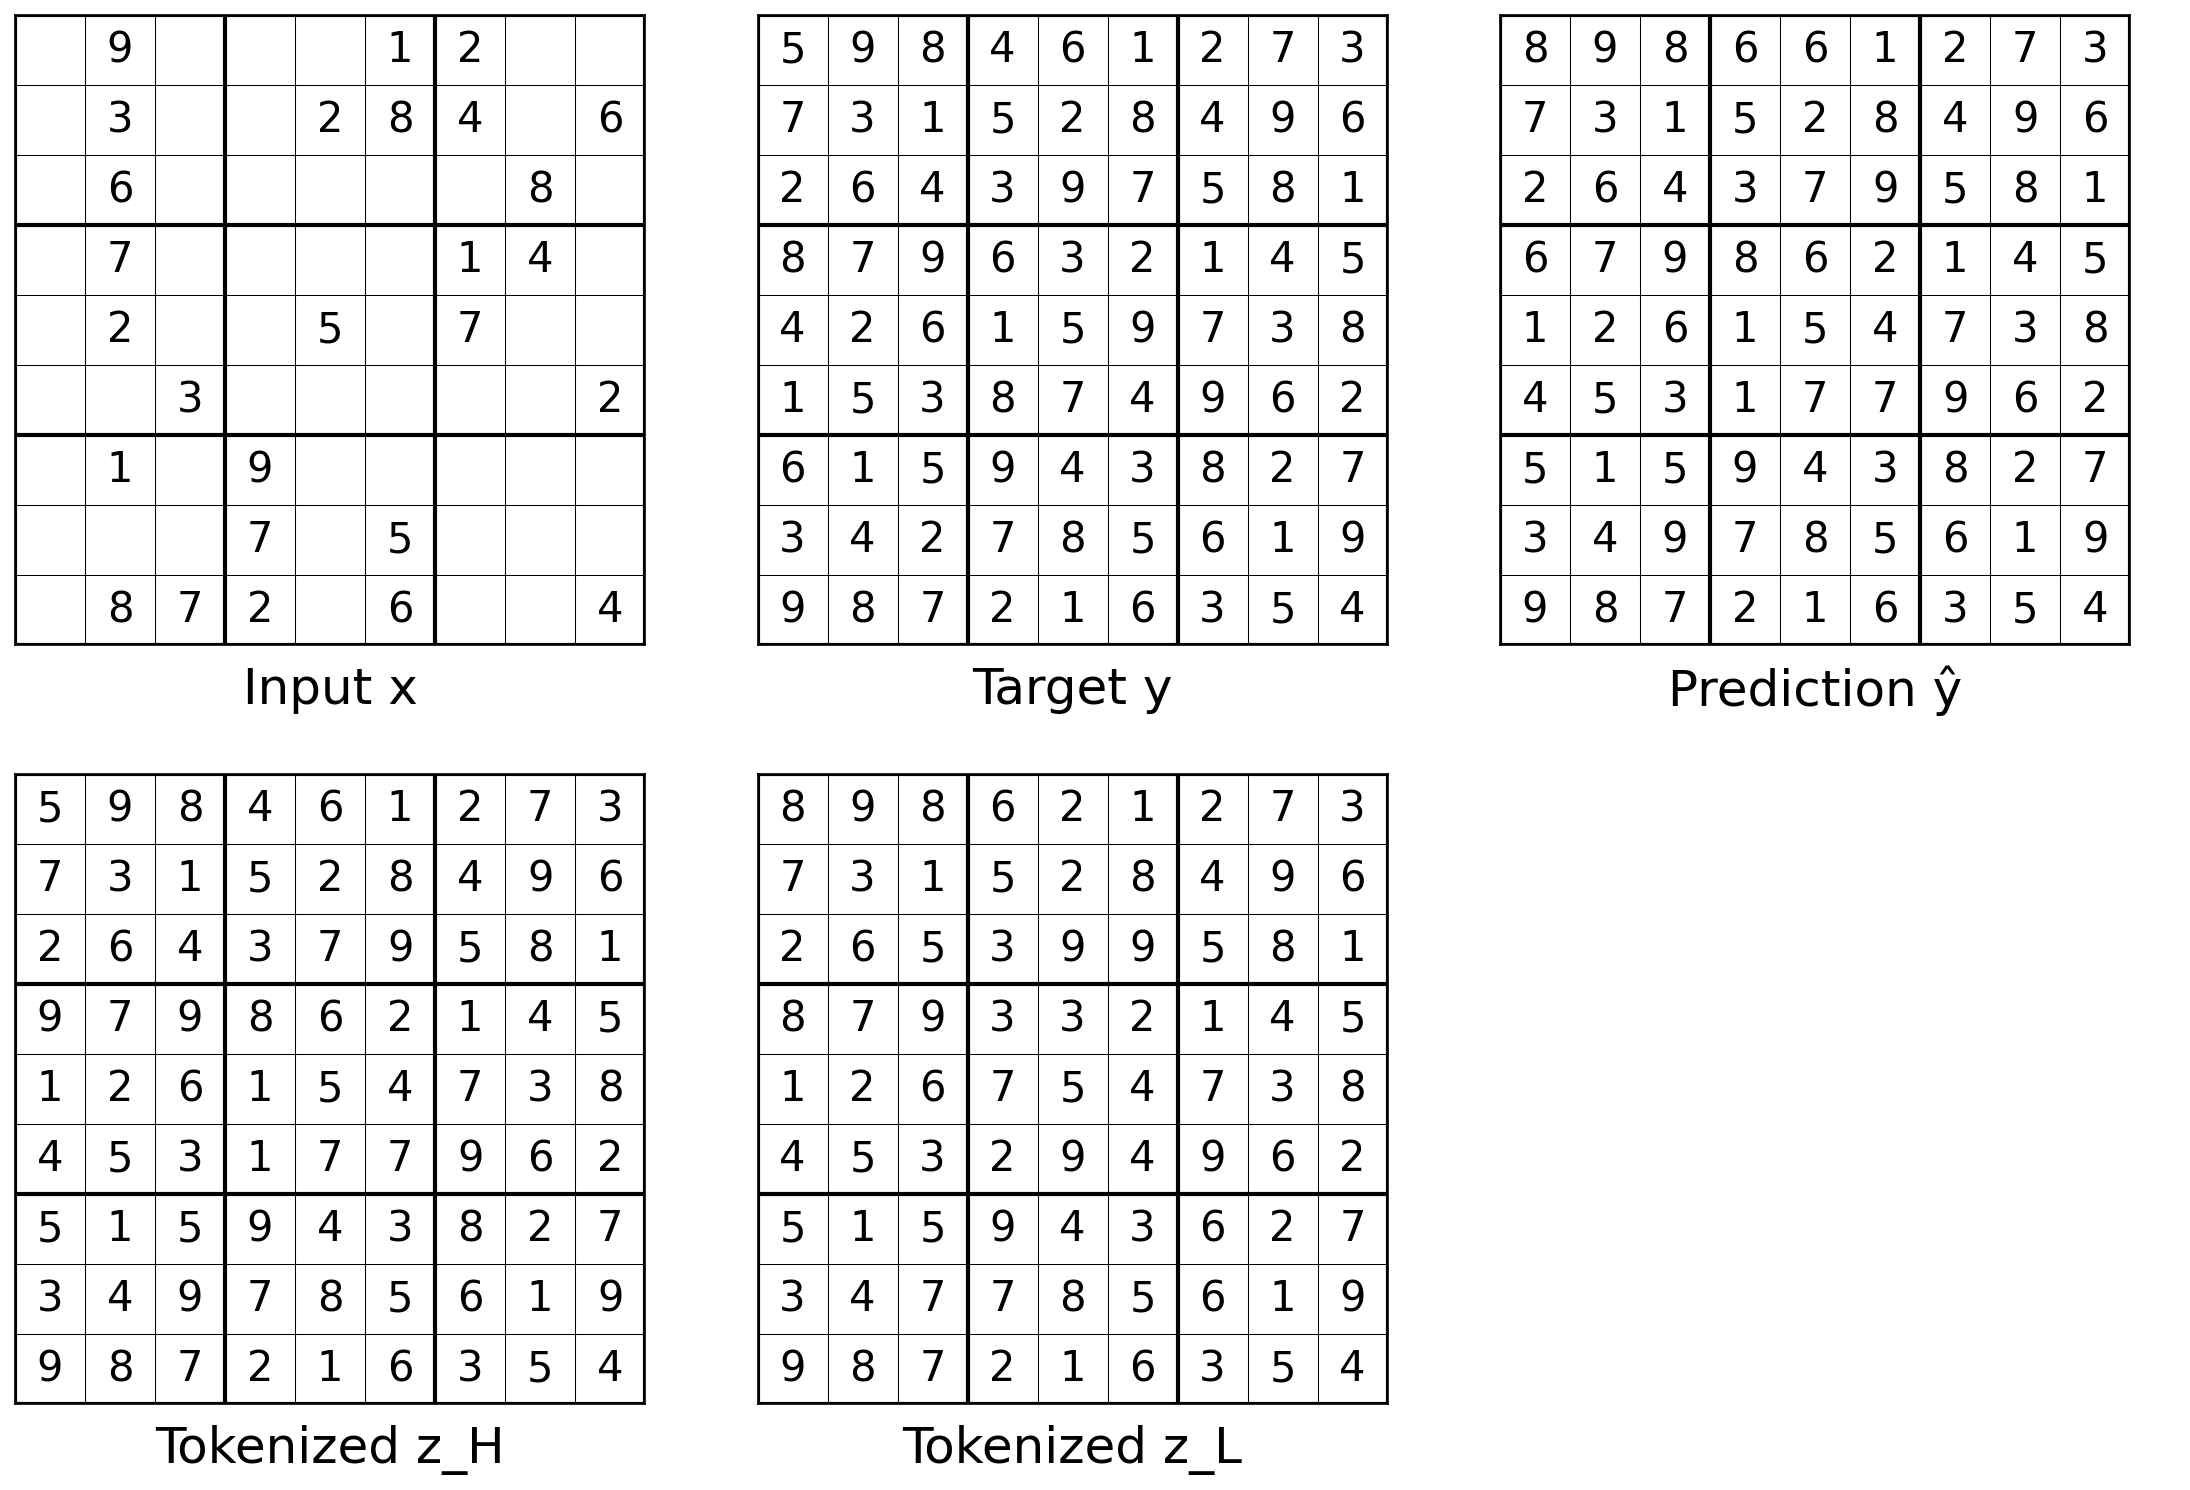
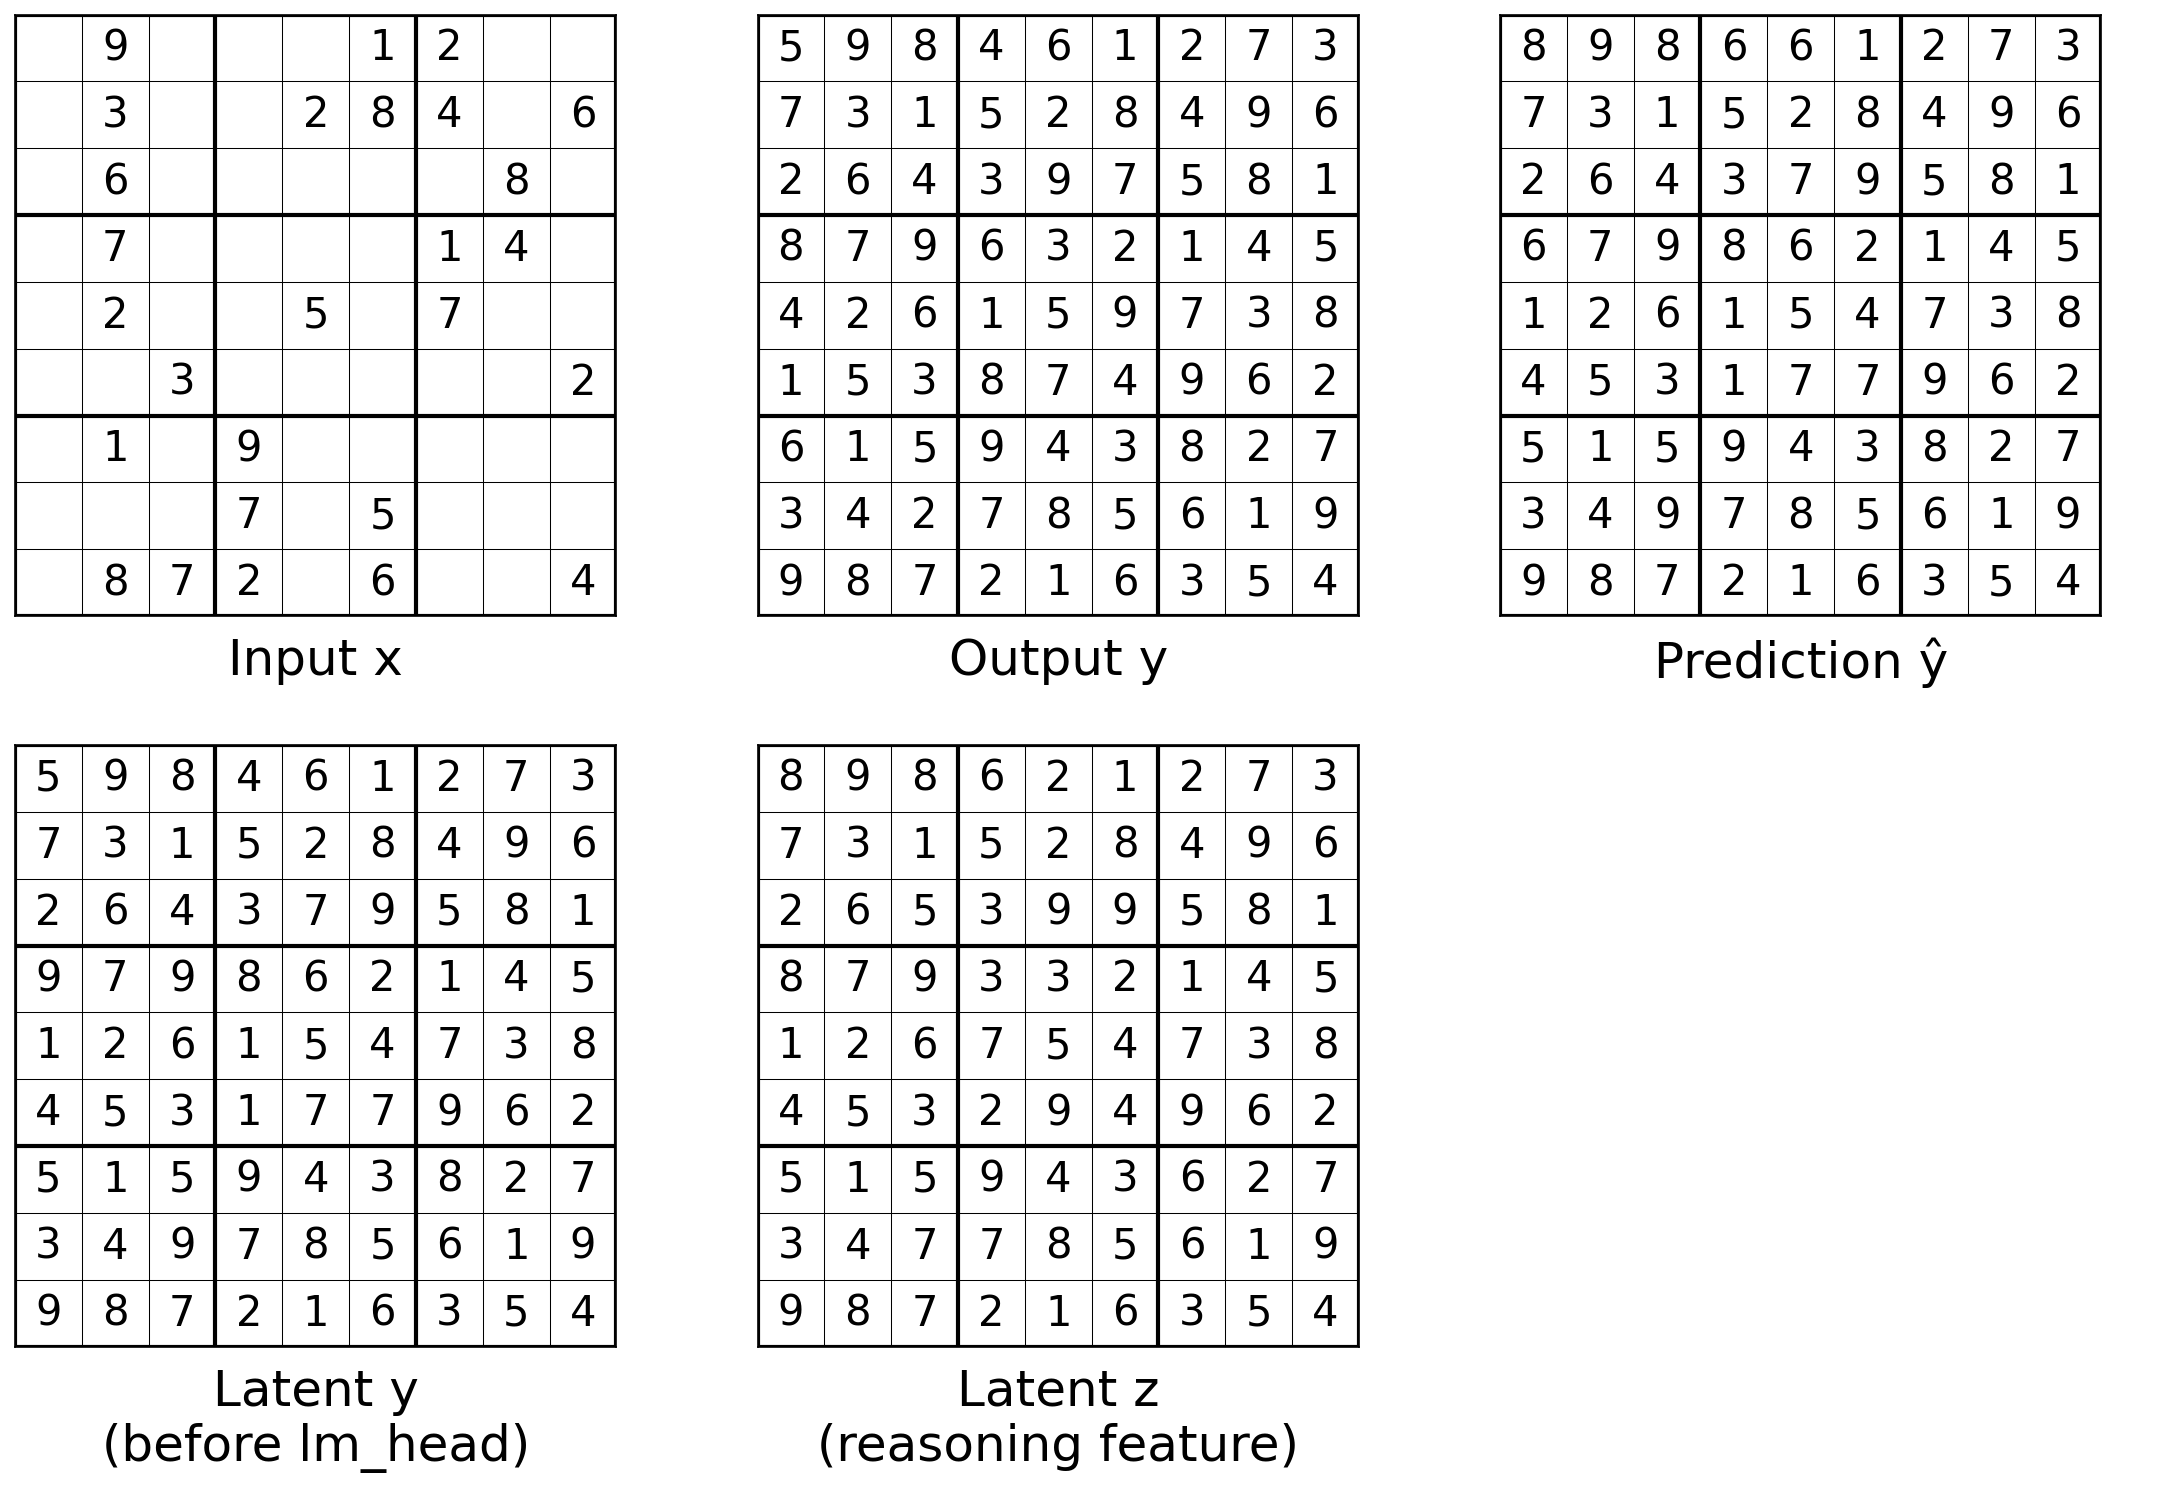
visualization captions

Changed region(s): [[0.3389, 0.0, 0.6469, 0.9892], [0.0, 0.0, 0.308, 0.9892], [0.6777, 0.0, 0.9857, 0.4946]]

diff --git a/visualization/visualize_latents.py b/visualization/visualize_latents.py
@@ -115,7 +115,7 @@ def visualize_sudoku(data, idx, save_path):
         to_sudoku(data['tokenized_zL'][idx].numpy().reshape(9, 9)),
         None
     ]
-    titles = ['Input x', 'Target y', 'Prediction ŷ', 'Tokenized z_H', 'Tokenized z_L', '']
+    titles = ['Input x', 'Output y', 'Prediction ŷ', 'Latent y\n(before lm_head)', 'Latent z\n(reasoning feature)', '']
 
     for ax, title, grid in zip(axes.flat, titles, grids):
         if grid is not None:
